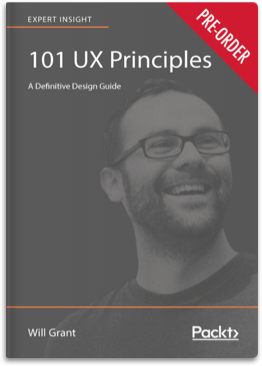
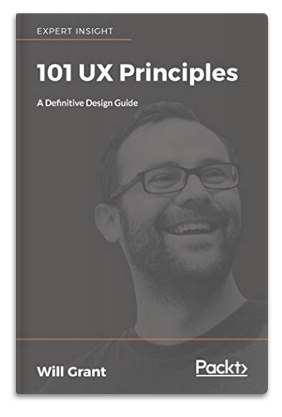
its not preorder its buy now

diff --git a/index.html b/index.html
@@ -16,7 +16,7 @@
         <meta name="msapplication-TileImage" content="/img/mstile-144x144.png" />
 
         <link rel="stylesheet" href="https://stackpath.bootstrapcdn.com/bootstrap/4.1.0/css/bootstrap.min.css" integrity="sha384-9gVQ4dYFwwWSjIDZnLEWnxCjeSWFphJiwGPXr1jddIhOegiu1FwO5qRGvFXOdJZ4" crossorigin="anonymous">
-        <link href="https://fonts.googleapis.com/css?family=Poppins:500" rel="stylesheet"> 
+
         <link rel="stylesheet" href="css/uxbook.css">
         <link rel="stylesheet" href="https://use.fontawesome.com/releases/v5.0.13/css/all.css" integrity="sha384-DNOHZ68U8hZfKXOrtjWvjxusGo9WQnrNx2sqG0tfsghAvtVlRW3tvkXWZh58N9jp" crossorigin="anonymous">
         
@@ -42,20 +42,21 @@
 
     <div class="container" style="margin-top:32px">
 
-        <h1 style="margin-bottom:64px;text-align:center"><a href="http://amzn.to/2pakk4p">101 UX Principles: A Definitive Design Guide</a></h1>
+        <h1 class="display-3" style="text-align:center"><a href="https://amzn.to/2oJsBwl">101 UX Principles</a></h1> 
+        <h1 class="display-4" style="margin-bottom:64px;text-align:center">A Definitive Design Guide</h1>
 
         <div class="row">
 
         <div class="col-3">
-            <a href="http://amzn.to/2pakk4p">
+            <a href="https://amzn.to/2oJsBwl">
                 <img src="/img/will-grant_101-ux-principles.png" class="img img-fluid">
             </a>
         </div>
 
         <div class="col-9">
-            <h2>Become a better UX professional with 20+ years collected UX experience</h2>
+            <h1 class="text-highlight">Become a better digital product designer with 20+ years collected UX experience</h1>
             <br>
-            <a href="http://amzn.to/2pakk4p" class="btn">Pre-order on Amazon from &pound;23.34</a>
+            <a href="https://amzn.to/2oJsBwl" class="btn">Buy now on Amazon from &pound;21.59</a>
             <p class="text-small">Paperback, Kindle and eBook versions available</p>
         </div>
        
@@ -65,9 +66,9 @@
         <section>
             <div class="row mx-auto">
                 <div class="col text-center">
-                <h2>There are countless books about designing digital products.</h2> 
+                <h1>There are countless books about designing digital products.</h1> 
                 <p>They all give multiple routes, options, and solutions to solving design problems.</p>
-                <p>Many of them are <strong>plain wrong</strong>.</p>
+                <p>Many of them are <strong class="text-highlight">plain wrong</strong>.</p>
 
                 <p>This has led to an entire generation of designers failing to make interfaces that are usable, software that’s intuitive, and products that normal people can understand.</p>
 
@@ -86,7 +87,7 @@
                     
                     <p>101 UX Principles is the culmination of Will’s intense focus on defining and refining what it means to build products people intuitively know how to use.</p>
                     
-                    <p>There are 1000s of methods to apply to each and every interaction in your product, but this book is a ‘shortcut’ to a method that works.</p>
+                    <p><span class="text-highlight">There are 1000s of methods to apply to each and every interaction in your product, <br>but this book is a ‘shortcut’ to a method that works</span>.</p>
                     </div>
                 </div>
         </section>
@@ -94,7 +95,7 @@
         <section>
                 <div class="row mx-auto">
                     <div class="col text-center">
-                    <h2><i class="fas fa-book-open" style="color:green"></i>&nbsp;Key features</h2>
+                    <h2><i class="fas fa-book-open" style="color:#16a085"></i>&nbsp;Key features</h2>
                     <p>101 UX shortcuts to success for beginners</p>
                     <p>Browse over 20 years of collected user experience insights</p>
                     <p>Accept or reject 101 thought-provoking opinions on design</p>
@@ -106,7 +107,7 @@
         <section>
                 <div class="row mx-auto">
                     <div class="col text-center">
-                    <h2><i class="fas fa-graduation-cap" style="color:green"></i>&nbsp;What you will learn</h2>
+                    <h2><i class="fas fa-graduation-cap" style="color:#16a085"></i>&nbsp;What you will learn</h2>
                     <p>Use typography well to ensure that text is readable</p>
                     <p>Design controls to streamline interaction</p>
                     <p>Provide interfaces that work for users with visual or motion impairments</p>
@@ -118,7 +119,7 @@
         <section>
                 <div class="row mx-auto">
                     <div class="col text-center">
-                    <h2><i class="fas fa-users" style="color:green"></i>&nbsp;Who should read this book?</h2>
+                    <h2><i class="fas fa-users" style="color:#16a085"></i>&nbsp;Who should read this book?</h2>
                     <p>UX professionals both freelance and in-house</p>
                     <p>Entry-level UI/UX/product designers and students</p>
                     <p>Mid-level and senior UI/UX/product designers</p>
@@ -140,13 +141,121 @@
                     
                     <p>Will has been building intuitive, usable software products since the birth of the consumer web over 20 years ago - through to the present day where Will's work has reached more than a billion users.</p>
                     <br>
-                    <a href="http://amzn.to/2pakk4p" class="btn">Pre-order now on Amazon</a>
+                    <a href="https://amzn.to/2oJsBwl" class="btn">Buy now on Amazon</a>
                     <p class="text-small">Paperback, Kindle and eBook versions available</p>     
                     <br>
                     </div>
                 </div>
         </section>
         <br>
+        <hr>
+        <div class="text-center">
+            <h2>Table of Contents</h2>
+            <div>Chapter 1: Anyone Can Be a&nbsp;User Experience (UX) Professional</div>
+            <div>Chapter 2: Don't Use More&nbsp;Than Two&nbsp;Typefaces</div>
+            <div>Chapter 3: Users Already Have&nbsp;Fonts on Their Computers, So&nbsp;Use Them</div>
+            <div>Chapter 4: Use Type Size to Depict Information Hierarchy</div>
+            <div>Chapter 5: Use a Sensible Default Size for&nbsp;Body Copy</div>
+            <div>Chapter 6: Use an Ellipsis to&nbsp;Indicate That There's&nbsp;a Further Step</div>
+            <div>Chapter 7: Make Your Buttons Look Like Buttons</div>
+            <div>Chapter 8: Make Buttons a&nbsp;Sensible Size and&nbsp;Group Them Together by Function</div>
+            <div>Chapter 9: Make the Whole Button Clickable, Not&nbsp;Just the Text</div>
+            <div>Chapter 10: Don't Invent New, Arbitrary Controls</div>
+            <div>Chapter 11: Search Should be&nbsp;a&nbsp;Text Field with&nbsp;a&nbsp;Button Labeled&nbsp;"Search"</div>
+            <div>Chapter 12: Sliders Should Be&nbsp;Used Only for Non-Quantifiable Values</div>
+            <div>Chapter 13: Use Numeric Entry Fields for Precise Integers</div>
+            <div>Chapter 14: Don't Use a Drop-Down Menu If&nbsp;You Only Have a Few Options</div>
+            <div>Chapter 15: Allow Users to Undo&nbsp;Destructive Actions</div>
+            <div>Chapter 16: Think About What's Just off the Screen</div>
+            <div>Chapter 17: Use "Infinite Scroll" for Feed–Style Content Only</div>
+            <div>Chapter 18: If Your Content Has a Beginning, Middle, and End, Use Pagination</div>
+            <div>Chapter 19: If You Must Use Infinite Scroll, Store the User's Position and Return to It</div>
+            <div>Chapter 20: Make "Blank Slates" More Than Just Empty Views</div>
+            <div>Chapter 21: Make "Getting Started" Tips Easily&nbsp;Dismissable</div>
+            <div>Chapter 22: When a User Refreshes a Feed, Move Them to the Last Unread Item</div>
+            <div>Chapter 23: Don't Hide Items Away in a "Hamburger" Menu</div>
+            <div>Chapter 24: Make Your Links Look Like Links</div>
+            <div>Chapter 25: Split Menu Items&nbsp;Down into&nbsp;Subsections, so&nbsp;Users Don't Have&nbsp;to Remember Large Lists</div>
+            <div>Chapter 26: Hide "Advanced" Settings From Most&nbsp;Users</div>
+            <div>Chapter 27: Repeat Menu Items in the Footer or Lower Down in the View</div>
+            <div>Chapter 28: Use Consistent Icons Across the&nbsp;Product</div>
+            <div>Chapter 29: Don't Use Obsolete&nbsp;Icons</div>
+            <div>Chapter 30: Don't Try to Depict a New Idea With an&nbsp;Existing Icon</div>
+            <div>Chapter 31: Never Use Text&nbsp;on&nbsp;Icons</div>
+            <div>Chapter 32: Always Give Icons a Text Label</div>
+            <div>Chapter 33: Emoji are the Most Recognized Icon Set&nbsp;on Earth</div>
+            <div>Chapter 34: Use Device-Native Input Features Where Possible</div>
+            <div>Chapter 35: Obfuscate Passwords in Fields, but Provide a "Show Password" Toggle</div>
+            <div>Chapter 36: Always Allow the User to Paste into Password Fields</div>
+            <div>Chapter 37: Don't Attempt to&nbsp;Validate Email&nbsp;Addresses</div>
+            <div>Chapter 38: Don't Ever Clear User-Entered Data Unless Specifically Asked To</div>
+            <div>Chapter 39: Pick a Sensible Size&nbsp;for Multiline Input Fields</div>
+            <div>Chapter 40: Don't Ever Make Your UI Move While&nbsp;a User is&nbsp;Trying to&nbsp;Use It</div>
+            <div>Chapter 41: Use the Same Date Picker Controls Consistently</div>
+            <div>Chapter 42: Pre-fill the Username in "Forgot Password" Fields</div>
+            <div>Chapter 43: Be Case-Insensitive</div>
+            <div>Chapter 44: If a Good Form Experience Can Be&nbsp;Delivered, Your&nbsp;Users will Love&nbsp;Your Product</div>
+            <div>Chapter 45: Validate Data Entry as Soon as Possible</div>
+            <div>Chapter 46: If the Form Fails Validation, Show the User Which Field Needs Their Attention</div>
+            <div>Chapter 47: Be Forgiving – Users&nbsp;Don't Know (and Don't Care) How You Need the&nbsp;Data</div>
+            <div>Chapter 48: Pick the Right Control for the Job</div>
+            <div>Chapter 49: Allow Users to&nbsp;Enter Phone Numbers However They Wish</div>
+            <div>Chapter 50: Use Drop Downs&nbsp;Sensibly for&nbsp;Date&nbsp;Entry</div>
+            <div>Chapter 51: Capture the Bare Minimum When Requesting Payment Card Details</div>
+            <div>Chapter 52: Make it Easy for Users to Enter Postal or ZIP Codes</div>
+            <div>Chapter 53: Don't Add Decimal&nbsp;Places to&nbsp;Currency Input</div>
+            <div>Chapter 54: Make it Painless for the User to Add&nbsp;Images</div>
+            <div>Chapter 55: Use a "Linear" Progress Bar if&nbsp;a&nbsp;Task will Take&nbsp;a&nbsp;Determinate Amount of Time</div>
+            <div>Chapter 56: Show a "Spinner" if&nbsp;the Task Will Take an Indeterminate Amount of Time</div>
+            <div>Chapter 57: Never Show an Animated, Looping Progress Bar</div>
+            <div>Chapter 58: Show a Numeric Progress Indicator on the Progress Bar</div>
+            <div>Chapter 59: Contrast Ratios Are&nbsp;Your Friends</div>
+            <div>Chapter 60: If You Must Use "Flat&nbsp;Design" then Add Some Visual Affordances to&nbsp;Controls</div>
+            <div>Chapter 61: Avoid Ambiguous Symbols</div>
+            <div>Chapter 62: Make Links Make&nbsp;Sense Out&nbsp;of&nbsp;Context</div>
+            <div>Chapter 63: Add "Skip to Content" Links Above the Header and Navigation</div>
+            <div>Chapter 64: Don't Only Use Color to Convey Information</div>
+            <div>Chapter 65: If You Turn Off&nbsp;Device Zoom with&nbsp;a&nbsp;Meta Tag, You're Evil</div>
+            <div>Chapter 66: Give Navigation Elements a Logical Tab Order</div>
+            <div>Chapter 67: Write Clear Labels for Controls</div>
+            <div>Chapter 68: Let Users Turn off Specific Notifications</div>
+            <div>Chapter 69: Make Tappable Areas&nbsp;Finger-Sized</div>
+            <div>Chapter 70: A User's Journey Should Have a&nbsp;Beginning, Middle,&nbsp;and End</div>
+            <div>Chapter 71: The User Should Always Know at What Stage They Are in Any Given Journey</div>
+            <div>Chapter 72: Use Breadcrumb Navigation</div>
+            <div>Chapter 73: If the User is on an Optional Journey, Give Them a Control to "Skip This"</div>
+            <div>Chapter 74: Users Don't Care About Your&nbsp;Company</div>
+            <div>Chapter 75: Follow the Standard E-Commerce Pattern</div>
+            <div>Chapter 76: Show an Indicator in the Title Bar if the User's Work is&nbsp;Unsaved</div>
+            <div>Chapter 77: Don't Nag Your Users into Rating Your App</div>
+            <div>Chapter 78: Don't Use a Vanity Splash Screen</div>
+            <div>Chapter 79: Make Your Favicon&nbsp;Distinctive</div>
+            <div>Chapter 80: Add a "Create from&nbsp;Existing" Flow</div>
+            <div>Chapter 81: Make it Easy for Users to Pay You</div>
+            <div>Chapter 82: Categorize Search&nbsp;Results into&nbsp;Sections</div>
+            <div>Chapter 83: Your Users Probably Don't Understand the File System</div>
+            <div>Chapter 84: Show, Don't Tell</div>
+            <div>Chapter 85: Be Consistent with&nbsp;Terminology</div>
+            <div>Chapter 86: Use "Sign in" and&nbsp;"Sign out", Not&nbsp;"Log in" and&nbsp;"Log&nbsp;out"</div>
+            <div>Chapter 87: "Sign up" Makes More Sense Than "Register"</div>
+            <div>Chapter 88: Use "Forgot Password" or "Forgotten Your Password", Not Something Obscure</div>
+            <div>Chapter 89: Write Like a Human Being</div>
+            <div>Chapter 90: Choose Active Verbs&nbsp;over Passive</div>
+            <div>Chapter 91: Search Results Pages&nbsp;Should Show&nbsp;the Most Relevant Result at the Top of the Page</div>
+            <div>Chapter 92: Pick Good Defaults</div>
+            <div>Chapter 93: Don't Confound Users' Expectations</div>
+            <div>Chapter 94: Reduce the Number of Tasks a User Has to Complete by Using Sensible Defaults</div>
+            <div>Chapter 95: Build Upon Established Metaphors – It's Not Stealing</div>
+            <div>Chapter 96: Decide Whether an&nbsp;Interaction Should Be Obvious, Easy, or&nbsp;Possible</div>
+            <div>Chapter 97: "Does it Work on&nbsp;Mobile?" is&nbsp;Obsolete</div>
+            <div>Chapter 98: Messaging is a Solved Problem</div>
+            <div>Chapter 99: Brands Are Bullshit</div>
+            <div>Chapter 100: Don't Join the&nbsp;Dark Side</div>
+            <div>Chapter 101: Test with Real&nbsp;Users</div>
+            <div>Chapter 102: Bonus – Strive for&nbsp;Simplicity</div>
+
+        </div>
+
     </div>
 
 </div>

diff --git a/css/uxbook.css b/css/uxbook.css
@@ -6,10 +6,6 @@ body {
     font-size: 19px;
 }
 
-h1, h2, h3 {
-  font-family: 'Poppins', sans-serif;
-}
-
 h2 {
   font-weight: 400;
 }
@@ -55,10 +51,17 @@ h2 {
   }
 
 .btn:hover {
-    background-color: #eb9651; /* Green */
+    background-color: #eb9651; 
     color: white;
 }
 
 .text-small {
   font-size: 80%;
+}
+
+.text-highlight {
+  font-style: normal;
+  border-radius: 1em 0 1em 0;
+  text-shadow: 1px 1px 1px #fff;
+  background-image: linear-gradient(-100deg, rgba(255, 250, 150, 0.33), rgba(255, 250, 150, 0.8) 100%, rgba(255, 250, 150, 0.33));
 }
